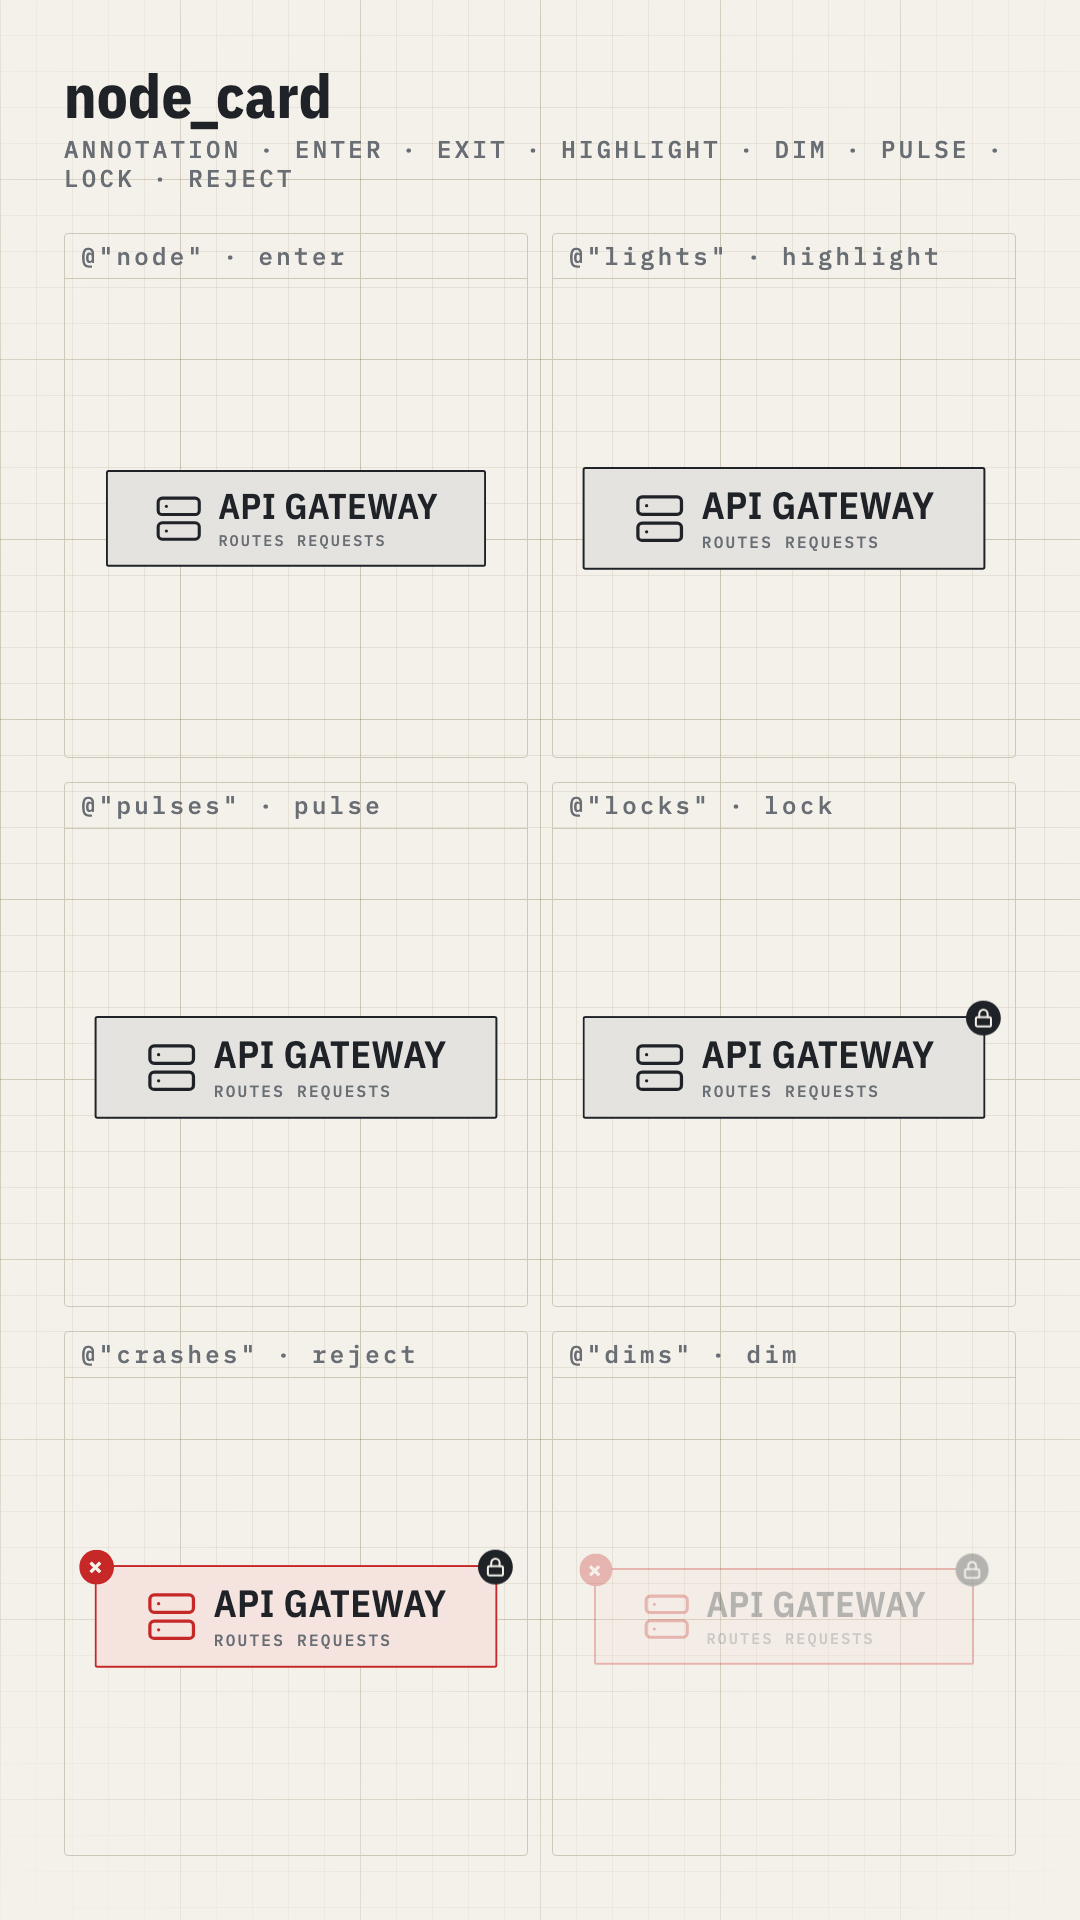
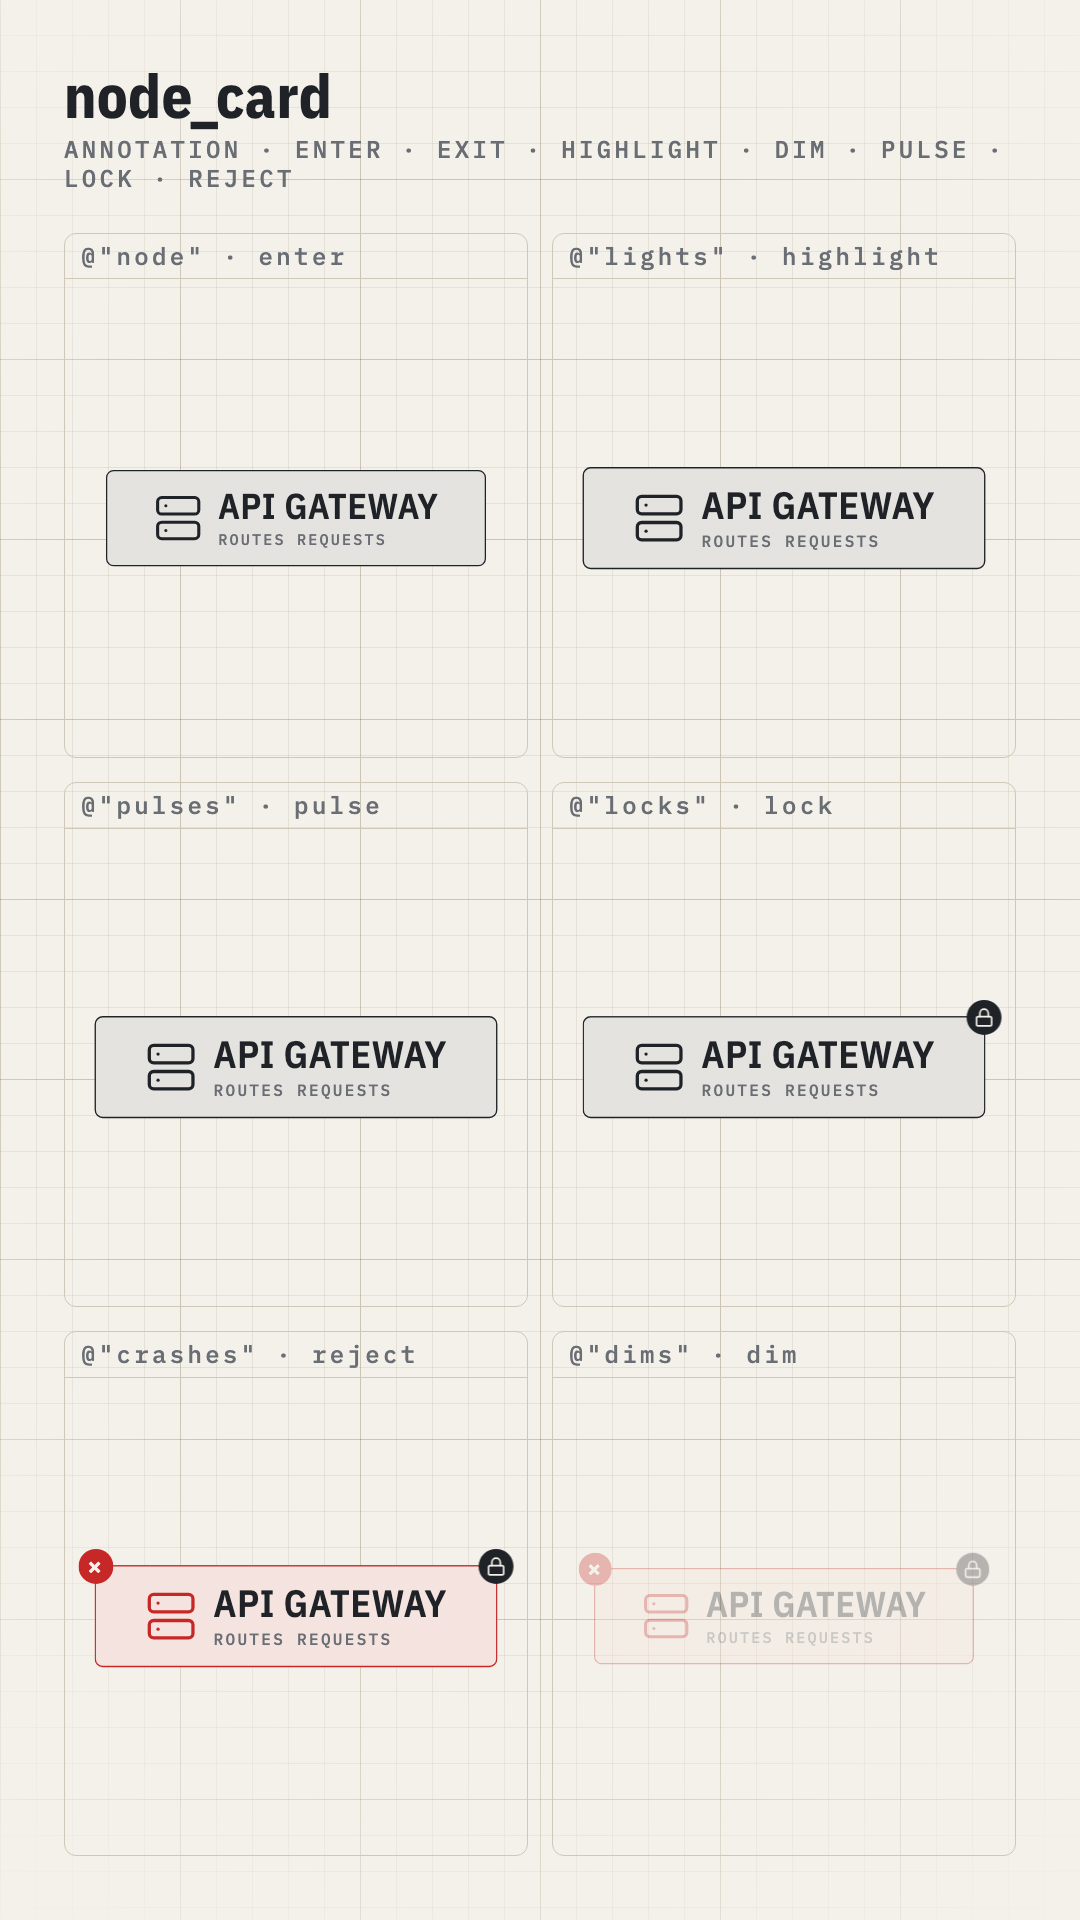
theme: drafting-paper rounder, lighter strokes
Shape tokens only: drafting-paper now uses blueprint-dark's radius scale
(sm 6 / md 12 / lg 20 / pill) and lighter outlines (regular 2.5 px, bold 4 px;
hairline and thin unchanged). Colours unchanged.

still:compare takes --only <swatch,rate-limiter,primitive ids> to render a
subset; re-rendered the swatch board and the node_card, tag, slot_grid and
rate-limiter comparison stills.

diff --git a/packages/renderer/scripts/render-theme-compare.ts b/packages/renderer/scripts/render-theme-compare.ts
@@ -9,7 +9,8 @@ import { listThemes } from '../src/theme/index.ts';
 
 /**
  * Renders theme comparison stills for every registered theme (or the theme ids given as
- * arguments):
+ * arguments). `--only <targets>` (comma-separated: `swatch`, `rate-limiter` or primitive ids)
+ * limits what is rendered; without it, everything is:
  *   docs/themes/<theme>.png                          swatch board
  *   docs/themes/compare/<primitive>-<theme>.png      one primitive sheet per primitive
  *   docs/themes/compare/rate-limiter-<theme>.png     middle frame of the rate-limiter fixture
@@ -23,12 +24,31 @@ const compareDir = resolve(themesDir, 'compare');
 
 type Serve = { serveUrl: string };
 
-function requestedThemeIds(): string[] {
-  const known = listThemes().map((t) => t.id);
-  const requested = process.argv.slice(2);
+const SWATCH = 'swatch';
+const RATE_LIMITER = 'rate-limiter';
+
+type Plan = { themeIds: string[]; targets: Set<string> };
+
+function pick(requested: string[], known: string[], what: string): string[] {
   const unknown = requested.filter((id) => !known.includes(id));
-  if (unknown.length > 0) throw new Error(`Unknown theme ids: ${unknown.join(', ')}`);
+  if (unknown.length > 0) throw new Error(`Unknown ${what}: ${unknown.join(', ')}`);
   return requested.length > 0 ? requested : known;
+}
+
+/** Theme ids from the positional arguments, targets from `--only`; empty means all. */
+function parseArgs(argv: string[]): Plan {
+  const onlyAt = argv.indexOf('--only');
+  const only = onlyAt >= 0 ? (argv[onlyAt + 1] ?? '').split(',').filter(Boolean) : [];
+  const positional = onlyAt >= 0 ? argv.filter((_, i) => i !== onlyAt && i !== onlyAt + 1) : argv;
+  const allTargets = [SWATCH, ...listPrimitives().map((p) => p.id), RATE_LIMITER];
+  return {
+    themeIds: pick(
+      positional,
+      listThemes().map((t) => t.id),
+      'theme ids',
+    ),
+    targets: new Set(pick(only, allTargets, 'targets')),
+  };
 }
 
 async function still(
@@ -44,26 +64,31 @@ async function still(
   console.log(`Wrote ${output}`);
 }
 
-async function renderTheme(serve: Serve, themeId: string): Promise<void> {
-  await still(serve, 'ThemeSwatchBoard', { themeId }, resolve(themesDir, `${themeId}.png`));
+async function renderTheme(serve: Serve, themeId: string, targets: Set<string>): Promise<void> {
+  if (targets.has(SWATCH)) {
+    await still(serve, 'ThemeSwatchBoard', { themeId }, resolve(themesDir, `${themeId}.png`));
+  }
   for (const { id: primitiveId } of listPrimitives()) {
+    if (!targets.has(primitiveId)) continue;
     const output = resolve(compareDir, `${primitiveId}-${themeId}.png`);
     await still(serve, 'PrimitiveSheet', { primitiveId, themeId }, output);
   }
-  const series = { ...fixtureSeries, accentColour: null };
-  const output = resolve(compareDir, `rate-limiter-${themeId}.png`);
-  await still(serve, 'VideoFromSpec', { themeId, series }, output, (d) => Math.floor(d / 2));
+  if (targets.has(RATE_LIMITER)) {
+    const series = { ...fixtureSeries, accentColour: null };
+    const output = resolve(compareDir, `${RATE_LIMITER}-${themeId}.png`);
+    await still(serve, 'VideoFromSpec', { themeId, series }, output, (d) => Math.floor(d / 2));
+  }
 }
 
 async function main(): Promise<void> {
-  const themeIds = requestedThemeIds();
+  const { themeIds, targets } = parseArgs(process.argv.slice(2));
   const serveUrl = await bundle({
     entryPoint: resolve(packageRoot, 'src/entry.ts'),
     rootDir: packageRoot,
     publicDir: resolve(packageRoot, 'public'),
   });
   mkdirSync(compareDir, { recursive: true });
-  for (const themeId of themeIds) await renderTheme({ serveUrl }, themeId);
+  for (const themeId of themeIds) await renderTheme({ serveUrl }, themeId, targets);
 }
 
 main().catch((error: unknown) => {

diff --git a/packages/renderer/src/theme/themes/drafting-paper.ts b/packages/renderer/src/theme/themes/drafting-paper.ts
@@ -91,7 +91,8 @@ export const draftingPaper = {
   // Same type scale, spacing and safe areas as the default, so the trial compares look only.
   text: blueprintDark.text,
   space: blueprintDark.space,
-  radius: { sm: 4, md: 4, lg: 4, pill: 999 },
-  stroke: { hairline: 1.5, thin: 2, regular: 3, bold: 5 },
+  radius: blueprintDark.radius,
+  // Lighter than the default's 4 / 6 px: softer ink outlines on paper.
+  stroke: { hairline: 1.5, thin: 2, regular: 2.5, bold: 4 },
   safeArea: blueprintDark.safeArea,
 } satisfies ThemeInput;

diff --git a/CLAUDE.md b/CLAUDE.md
@@ -241,7 +241,7 @@ primitive to `docs/primitives/<id>.png`.
   studio can import it.
 - **Theme selection:** `VideoFromSpec`/`BeatFromSpec` take an optional `themeId` (unknown ids
   fail in `calculateMetadata`); `PrimitiveSheet` and `ThemeSwatchBoard` take `themeId`.
-  `still:compare [themeIds…]` renders `docs/themes/<theme>.png` and, in `docs/themes/compare/`,
+  `still:compare [themeIds…] [--only swatch,rate-limiter,<primitive>…]` renders `docs/themes/<theme>.png` and, in `docs/themes/compare/`,
   every primitive sheet plus a mid-video rate-limiter frame per theme.
 - **Use the helpers, not raw values:** `tintFor`/`semanticTint` (soft fill, border, glow),
   `textCss`, `safeAreas`.
